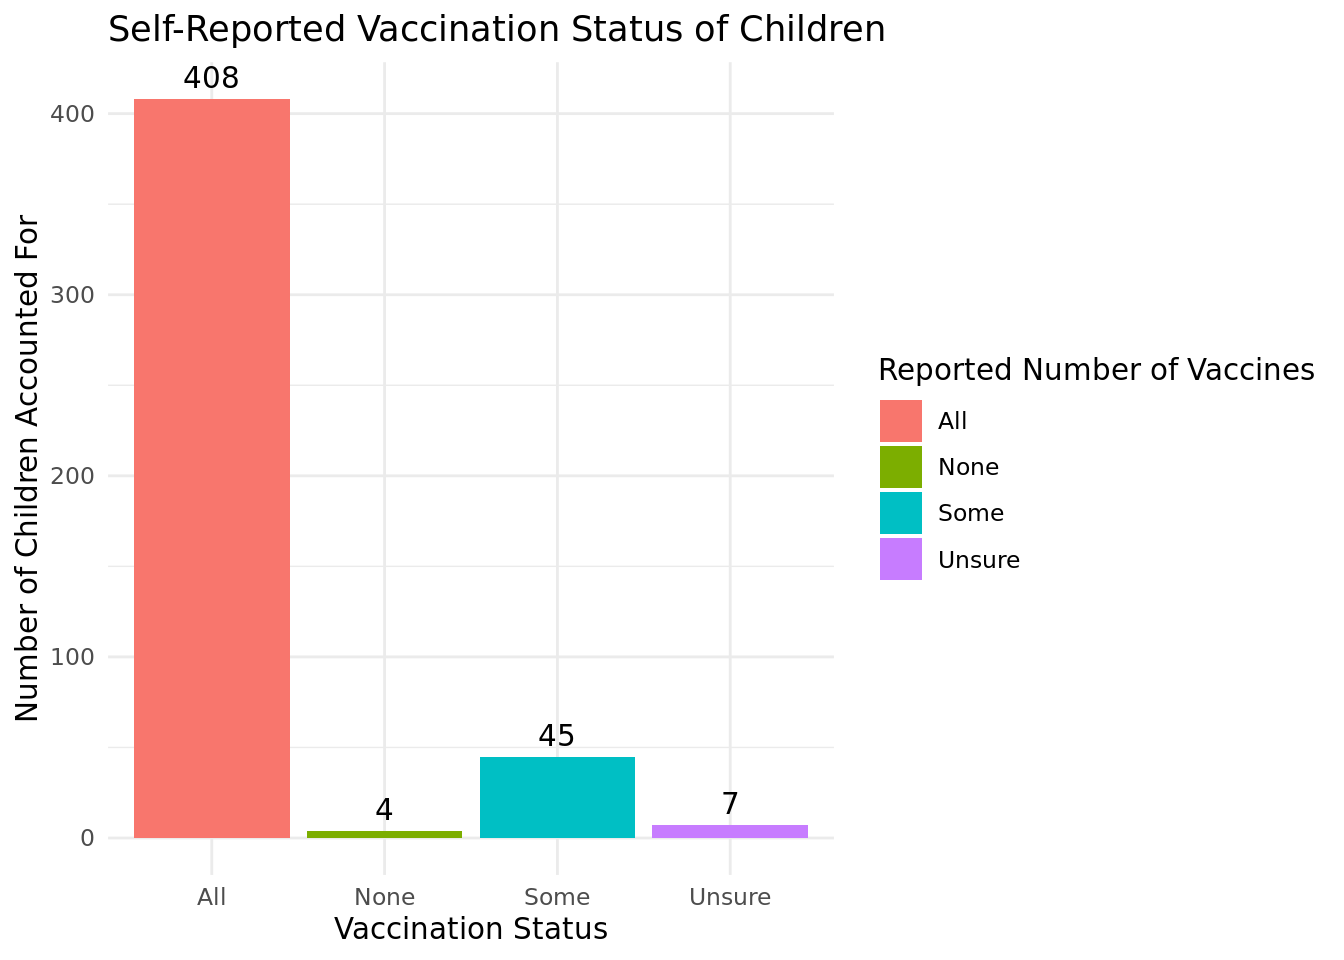
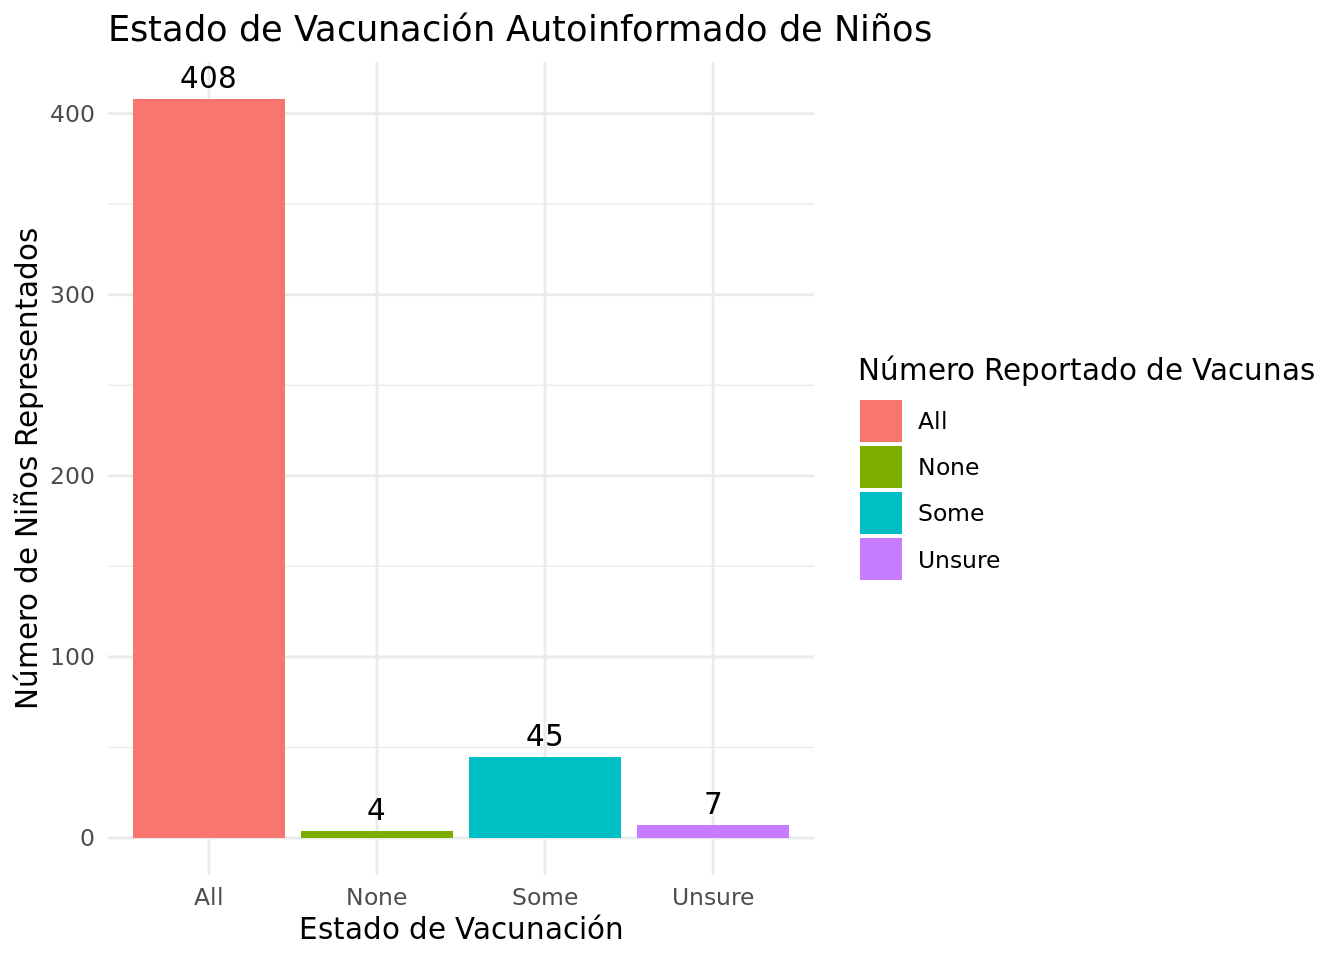
unknown figures en espanol

diff --git a/Quant Unknowns.html b/Quant Unknowns.html
@@ -181,11 +181,11 @@ dbl (1): age
 <span id="cb10-11"><a href="#cb10-11" aria-hidden="true" tabindex="-1"></a>  <span class="fu">geom_bar</span>(<span class="at">stat =</span> <span class="st">"identity"</span>) <span class="sc">+</span></span>
 <span id="cb10-12"><a href="#cb10-12" aria-hidden="true" tabindex="-1"></a>  <span class="fu">geom_text</span>(<span class="fu">aes</span>(<span class="at">label =</span> n), <span class="at">vjust =</span> <span class="sc">-</span><span class="fl">0.5</span>) <span class="sc">+</span></span>
 <span id="cb10-13"><a href="#cb10-13" aria-hidden="true" tabindex="-1"></a>  <span class="fu">labs</span>(</span>
-<span id="cb10-14"><a href="#cb10-14" aria-hidden="true" tabindex="-1"></a>    <span class="at">title =</span> <span class="st">"Self-Reported Vaccination Status of Children"</span>,</span>
-<span id="cb10-15"><a href="#cb10-15" aria-hidden="true" tabindex="-1"></a>    <span class="at">x =</span> <span class="st">"Vaccination Status"</span>,</span>
-<span id="cb10-16"><a href="#cb10-16" aria-hidden="true" tabindex="-1"></a>    <span class="at">y =</span> <span class="st">"Number of Children Accounted For"</span></span>
+<span id="cb10-14"><a href="#cb10-14" aria-hidden="true" tabindex="-1"></a>    <span class="at">title =</span> <span class="st">"Estado de Vacunación Autoinformado de Niños"</span>,</span>
+<span id="cb10-15"><a href="#cb10-15" aria-hidden="true" tabindex="-1"></a>    <span class="at">x =</span> <span class="st">"Estado de Vacunación"</span>,</span>
+<span id="cb10-16"><a href="#cb10-16" aria-hidden="true" tabindex="-1"></a>    <span class="at">y =</span> <span class="st">"Número de Niños Representados"</span></span>
 <span id="cb10-17"><a href="#cb10-17" aria-hidden="true" tabindex="-1"></a>  ) <span class="sc">+</span></span>
-<span id="cb10-18"><a href="#cb10-18" aria-hidden="true" tabindex="-1"></a>  <span class="fu">scale_fill_discrete</span>(<span class="at">name =</span> <span class="st">"Reported Number of Vaccines"</span>) <span class="sc">+</span></span>
+<span id="cb10-18"><a href="#cb10-18" aria-hidden="true" tabindex="-1"></a>  <span class="fu">scale_fill_discrete</span>(<span class="at">name =</span> <span class="st">"Número Reportado de Vacunas"</span>) <span class="sc">+</span></span>
 <span id="cb10-19"><a href="#cb10-19" aria-hidden="true" tabindex="-1"></a>  <span class="fu">theme_minimal</span>()</span>
 <span id="cb10-20"><a href="#cb10-20" aria-hidden="true" tabindex="-1"></a></span>
 <span id="cb10-21"><a href="#cb10-21" aria-hidden="true" tabindex="-1"></a><span class="fu">print</span>(bar_plot)</span></code><button title="Copy to Clipboard" class="code-copy-button"><i class="bi"></i></button></pre></div>
